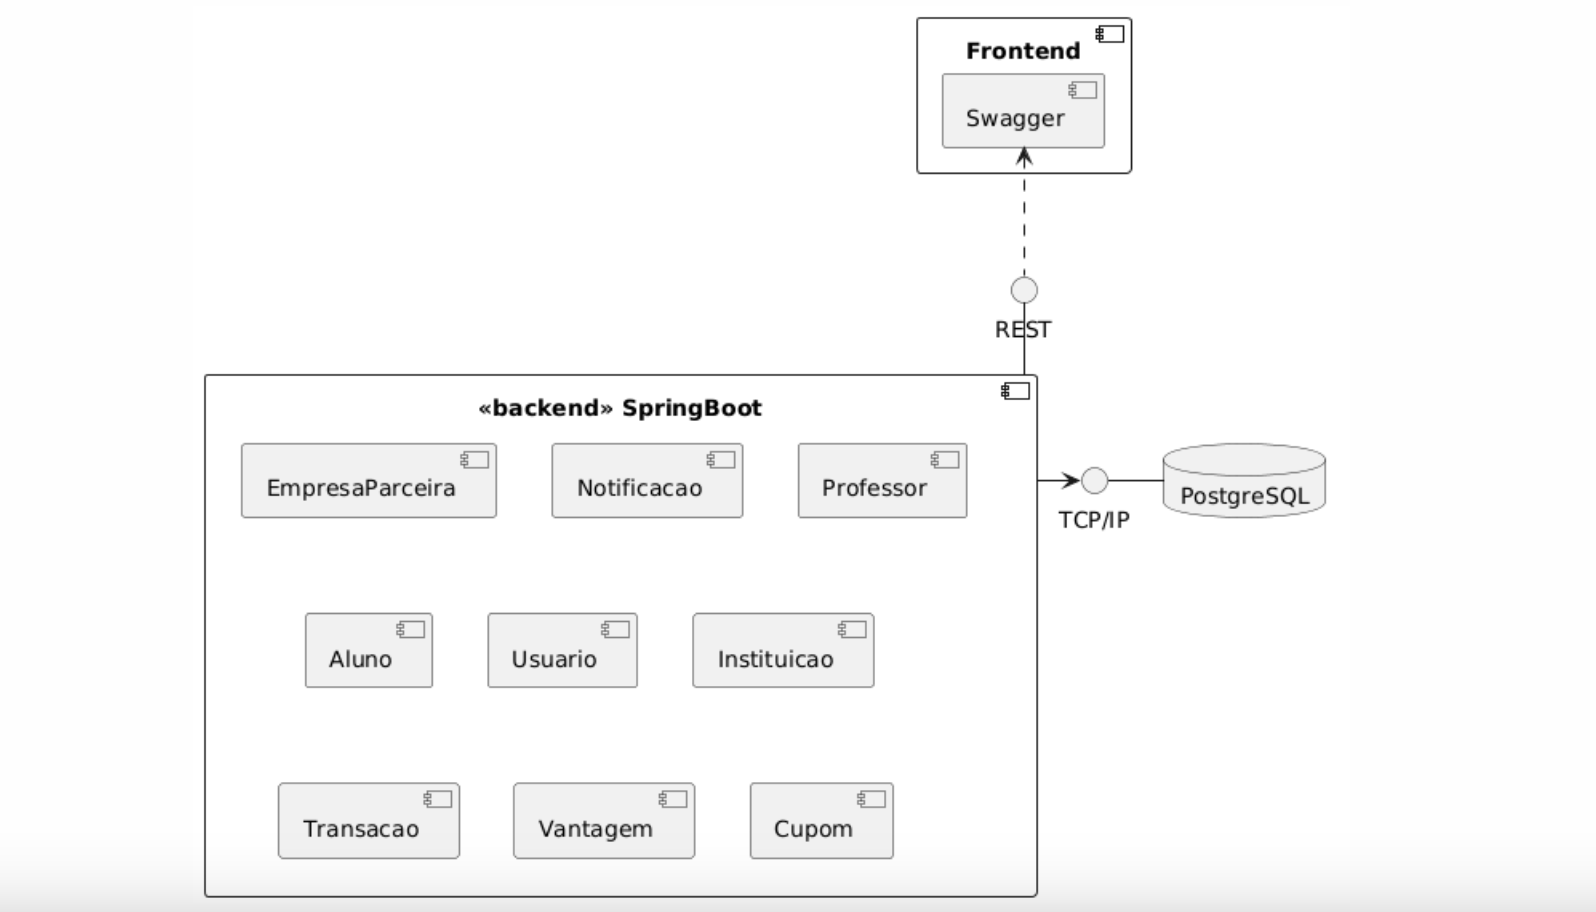
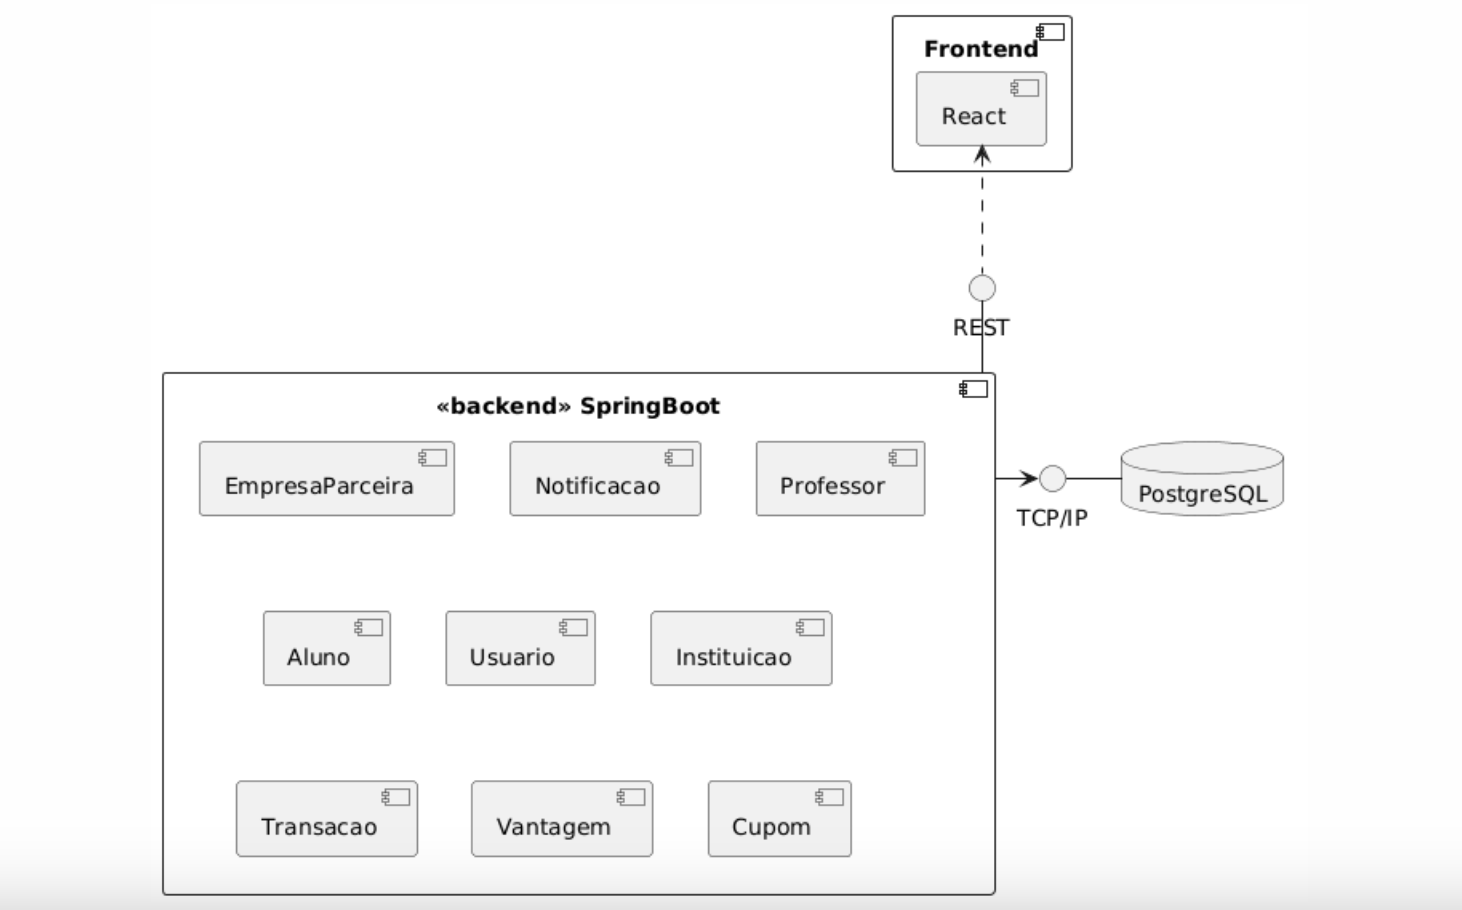
A

diff --git a/frontend/basic-front/app/(routes)/aluno/[id]/page.jsx b/frontend/basic-front/app/(routes)/aluno/[id]/page.jsx
@@ -1,0 +1,97 @@
+"use client"
+
+import { Button } from "@/components/ui/button";
+import { useEffect, useState } from "react";
+
+export default function Page(props) {
+    const [aluno, setAluno] = useState(null);
+
+    const id = props.params.id;
+
+    function onSubmit() {
+        fetch(`http://localhost:8081/aluno/${id}`, {
+            method: "POST",
+            headers: {
+                "Content-Type": "application/json",
+            },
+            body: JSON.stringify(aluno),
+        });
+        console.log(aluno);
+    }
+
+    useEffect(() => {
+        fetch(`http://localhost:8081/aluno/${id}`)
+            .then((res) => res.json())
+            .then((data) => {
+                setAluno(data);
+            });
+    }, [id])
+
+    useEffect(() => {
+        console.log("Aluno", aluno);
+    }, [aluno]);
+
+    return (
+        <div className="p-8">
+            <h1 className="text-2xl font-semibold">Criar aluno:</h1>
+            <form onSubmit={onSubmit}>
+                <div className="flex flex-col space-y-4 mt-4">
+                    <input
+                        type="text"
+                        placeholder="Nome"
+                        value={aluno.nome}
+                        className="p-2 border border-gray-300 rounded"
+                        onChange={(e) => setAluno({ ...aluno, nome: e.target.value })}
+                    />
+                    <input
+                        type="email"
+                        placeholder="Email"
+                        value={aluno.email}
+                        className="p-2 border border-gray-300 rounded"
+                        onChange={(e) => setAluno({ ...aluno, email: e.target.value })}
+                    />
+                    <input
+                        type="text"
+                        placeholder="CPF"
+                        value={aluno.cpf}
+                        className="p-2 border border-gray-300 rounded"
+                        onChange={(e) => setAluno({ ...aluno, cpf: e.target.value })}
+                    />
+                    <input
+                        type="text"
+                        placeholder="RG"
+                        value={aluno.rg}
+                        className="p-2 border border-gray-300 rounded"
+                        onChange={(e) => setAluno({ ...aluno, rg: e.target.value })}
+                    />
+                    <input
+                        type="text"
+                        placeholder="Endereço"
+                        value={aluno.endereco}
+                        className="p-2 border border-gray-300 rounded"
+                        onChange={(e) => setAluno({ ...aluno, endereco: e.target.value })}
+                    />
+                    <input
+                        type="number"
+                        placeholder="Moedas"
+                        value={aluno.moedas}
+                        className="p-2 border border-gray-300 rounded"
+                        onChange={(e) => setAluno({ ...aluno, moedas: e.target.value })}
+                    />
+                    <input
+                        type="text"
+                        placeholder="Nome da instituição"
+                        value={aluno.nomeInstituicao}
+                        className="p-2 border border-gray-300 rounded"
+                        onChange={(e) =>
+                            setAluno({ ...aluno, nomeInstituicao: e.target.value })
+                        }
+                    />
+                    <Button type="submit" className="bg-green-500">
+                        Atualizar aluno
+                    </Button>
+                </div>
+            </form>
+        </div>
+    );
+}

diff --git a/frontend/basic-front/app/(routes)/empresa-parceira/cadastro/page.jsx b/frontend/basic-front/app/(routes)/empresa-parceira/cadastro/page.jsx
@@ -15,66 +15,36 @@ export default function Page() {
       headers: {
         "Content-Type": "application/json",
       },
-      body: JSON.stringify(aluno),
+      body: JSON.stringify(empresa),
     });
-    console.log(aluno);
+    console.log(empresa);
   }
 
   useEffect(() => {
-    console.log("Aluno", aluno);
-  }, [aluno]);
+    console.log("Empresa\n", empresa);
+  }, [empresa]);
 
   return (
     <div className="p-8">
-      <h1 className="text-2xl font-semibold">Criar aluno:</h1>
+      <h1 className="text-2xl font-semibold">Criar empresa:</h1>
       <form onSubmit={onSubmit}>
         <div className="flex flex-col space-y-4 mt-4">
           <input
             type="text"
             placeholder="Nome"
-            value={aluno.nome}
+            value={empresa.nome}
             className="p-2 border border-gray-300 rounded"
-            onChange={(e) => setAluno({ ...aluno, nome: e.target.value })}
-          />
-          <input
-            type="email"
-            placeholder="Email"
-            value={aluno.email}
-            className="p-2 border border-gray-300 rounded"
-            onChange={(e) => setAluno({ ...aluno, email: e.target.value })}
+            onChange={(e) => setEmpresa({ ...empresa, nome: e.target.value })}
           />
           <input
             type="text"
-            placeholder="CPF"
-            value={aluno.cpf}
+            placeholder="Imagem"
+            value={empresa.imagem}
             className="p-2 border border-gray-300 rounded"
-            onChange={(e) => setAluno({ ...aluno, cpf: e.target.value })}
-          />
-          <input
-            type="text"
-            placeholder="RG"
-            value={aluno.rg}
-            className="p-2 border border-gray-300 rounded"
-            onChange={(e) => setAluno({ ...aluno, rg: e.target.value })}
-          />
-          <input
-            type="text"
-            placeholder="Endereço"
-            value={aluno.endereco}
-            className="p-2 border border-gray-300 rounded"
-            onChange={(e) => setAluno({ ...aluno, endereco: e.target.value })}
-          />
-          <input
-            type="text"
-            placeholder="Nome da instituição"
-            value={aluno.nomeInstituicao}
-            className="p-2 border border-gray-300 rounded"
-            onChange={(e) =>
-              setAluno({ ...aluno, nomeInstituicao: e.target.value })
-            }
+            onChange={(e) => setEmpresa({ ...empresa, imagem: e.target.value })}
           />
           <Button type="submit" className="bg-green-500">
-            Criar aluno
+            Criar empresa
           </Button>
         </div>
       </form>

diff --git a/frontend/basic-front/app/(routes)/empresa-parceira/page.jsx b/frontend/basic-front/app/(routes)/empresa-parceira/page.jsx
@@ -1,9 +1,39 @@
-import React from 'react'
+"use client";
 
-function page() {
-  return (
-    <div>page</div>
-  )
+import {useState, useEffect} from 'react'
+import {Button} from "@/components/ui/button";
+import Link from "next/link";
+
+function Page() {
+    const [empresaParceira, setEmpresaParceira] = useState([])
+
+    useEffect(() => {
+        fetch('http://localhost:8081/empresa-parceira')
+            .then(res => res.json())
+            .then(data => setEmpresaParceira(data))
+            .catch(err => console.error(err))
+    }, [])
+
+    return (
+        <div className={"p-8 h-[100vh]"}>
+            <div className={"flex justify-between"}>
+                <h1 className={"text-2xl font-semibold"}>Empresas Parceiras</h1>
+                <Button className={"bg-green-500"}>
+                    <Link href="empresa-parceira/cadastro">Criar empresa parceira</Link>
+                </Button>
+            </div>
+            <div className={"mt-3 p-4 grid grid-cols-3 gap-2"}>
+                {empresaParceira.length > 0 ? empresaParceira.map((aluno) => (
+                    <div key={aluno.id} className={"border-0 rounded-lg bg-slate-100 p-2"}>
+                        <h1 className={"text-xl font-semibold"}>{empresaParceira.nome}</h1>
+                        <Button className={"bg-yellow-400 text-black"}>
+                            <Link href={`/empresa-parceira/${empresaParceira.id}`}>Editar</Link>
+                        </Button>
+                    </div>
+                )) : <>Empresas não encontradas</>}
+            </div>
+        </div>
+    )
 }
 
-export default page
+export default Page;

diff --git a/frontend/basic-front/app/(routes)/aluno/page.jsx b/frontend/basic-front/app/(routes)/aluno/page.jsx
@@ -1,4 +1,4 @@
-"use client"
+"use client";
 
 import {useState, useEffect} from 'react'
 import {Button} from "@/components/ui/button";
@@ -37,4 +37,4 @@ function Page() {
     )
 }
 
-export default Page
+export default Page;
